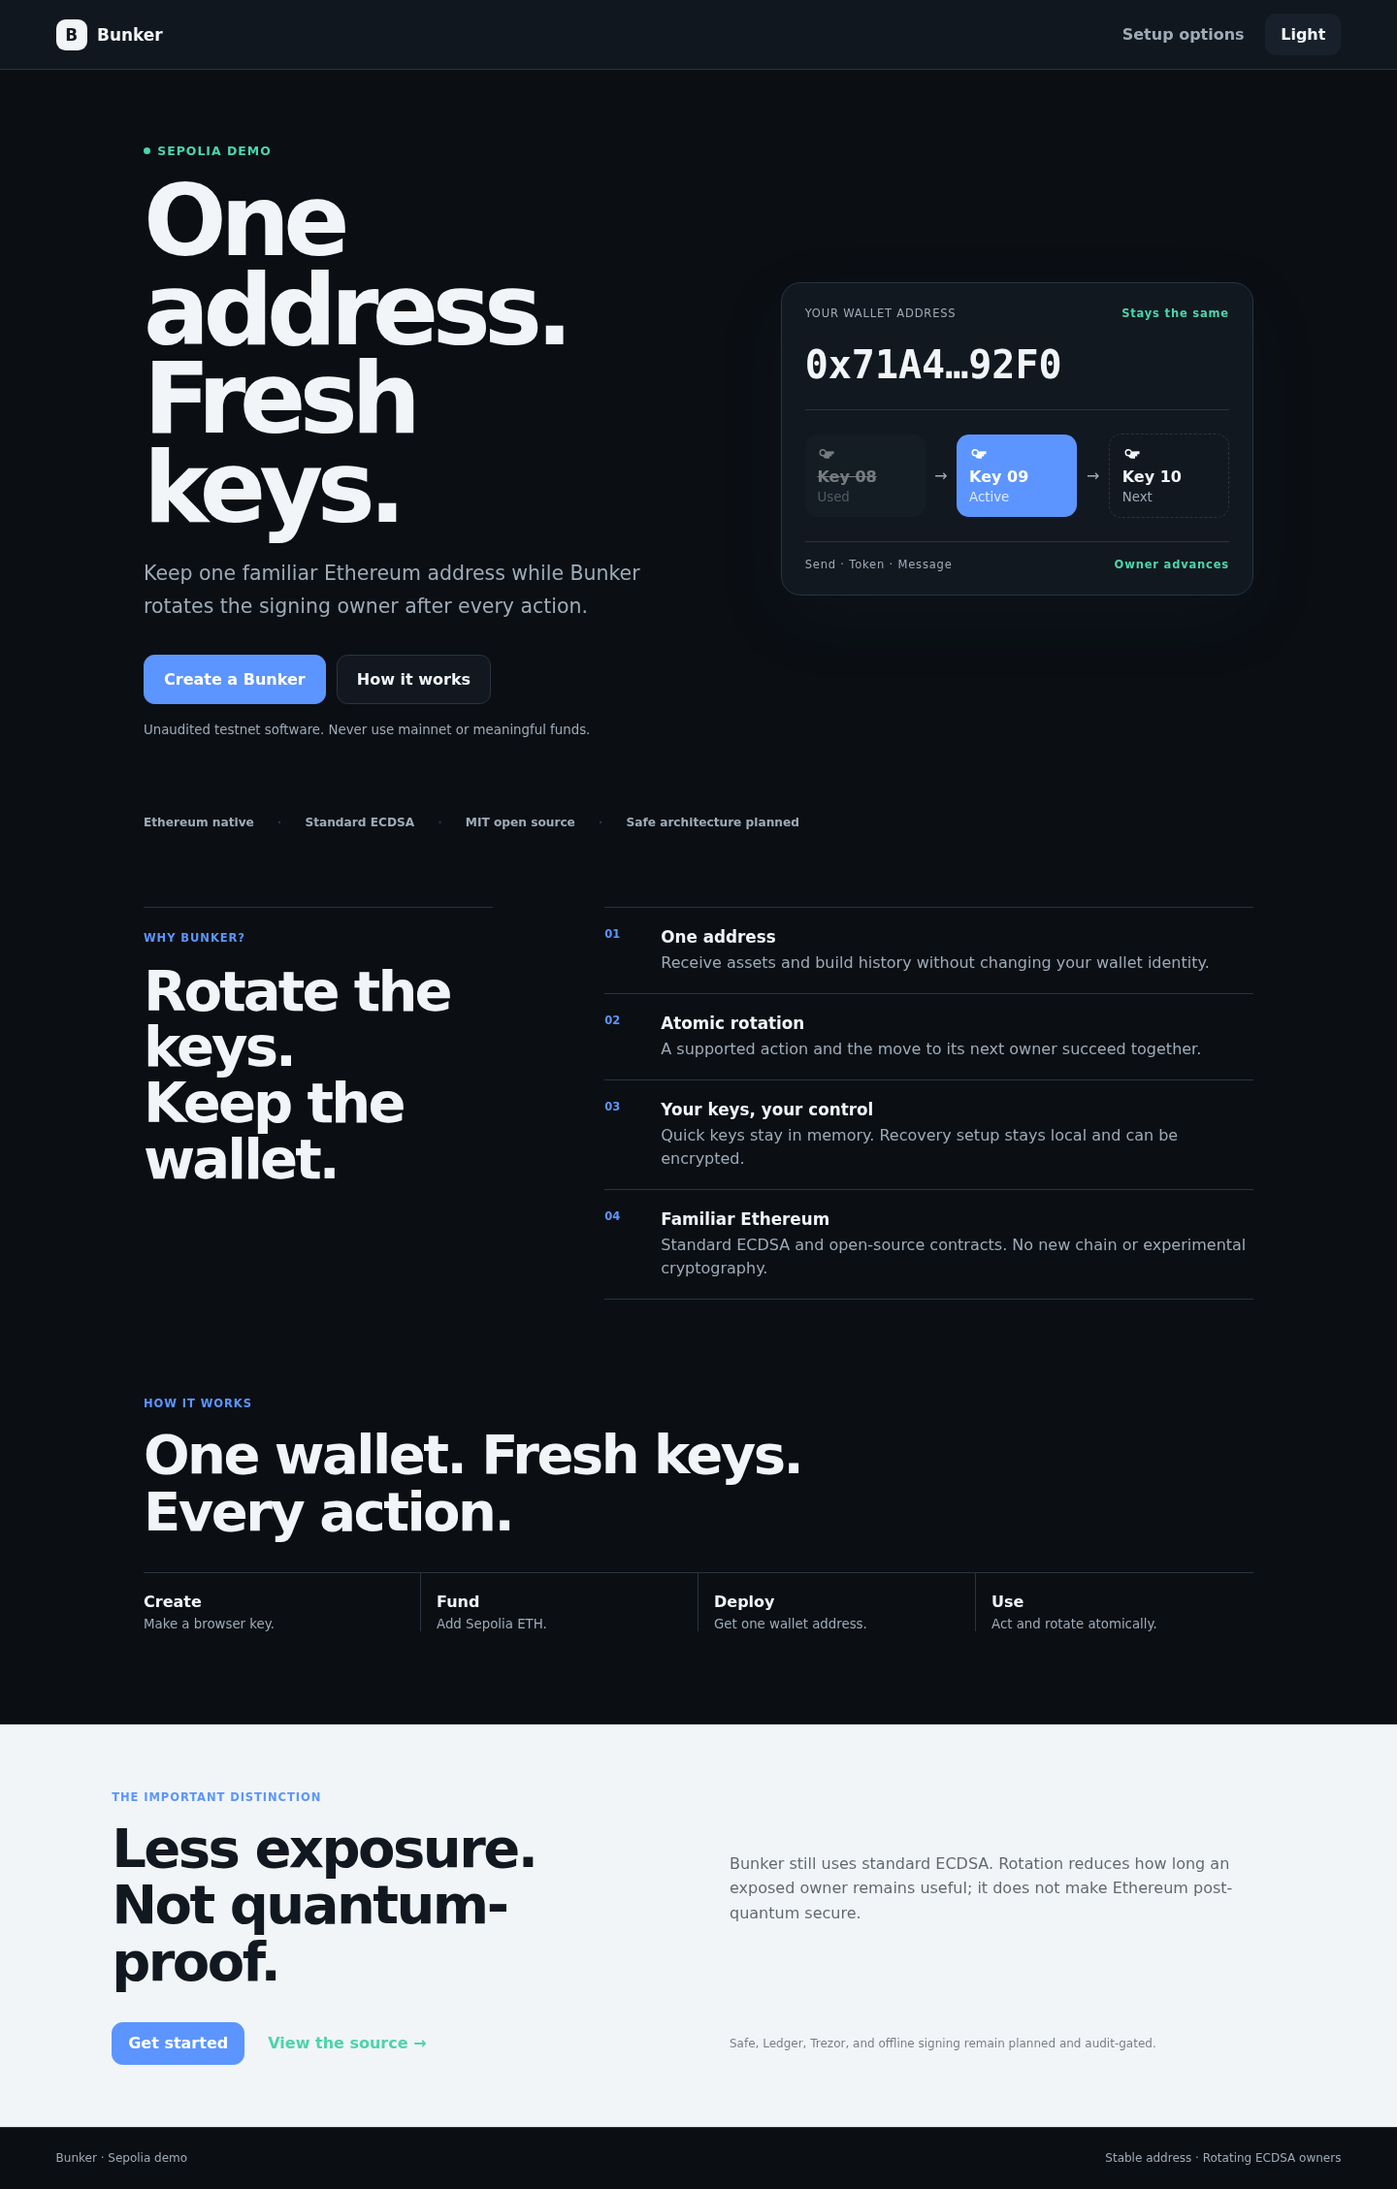
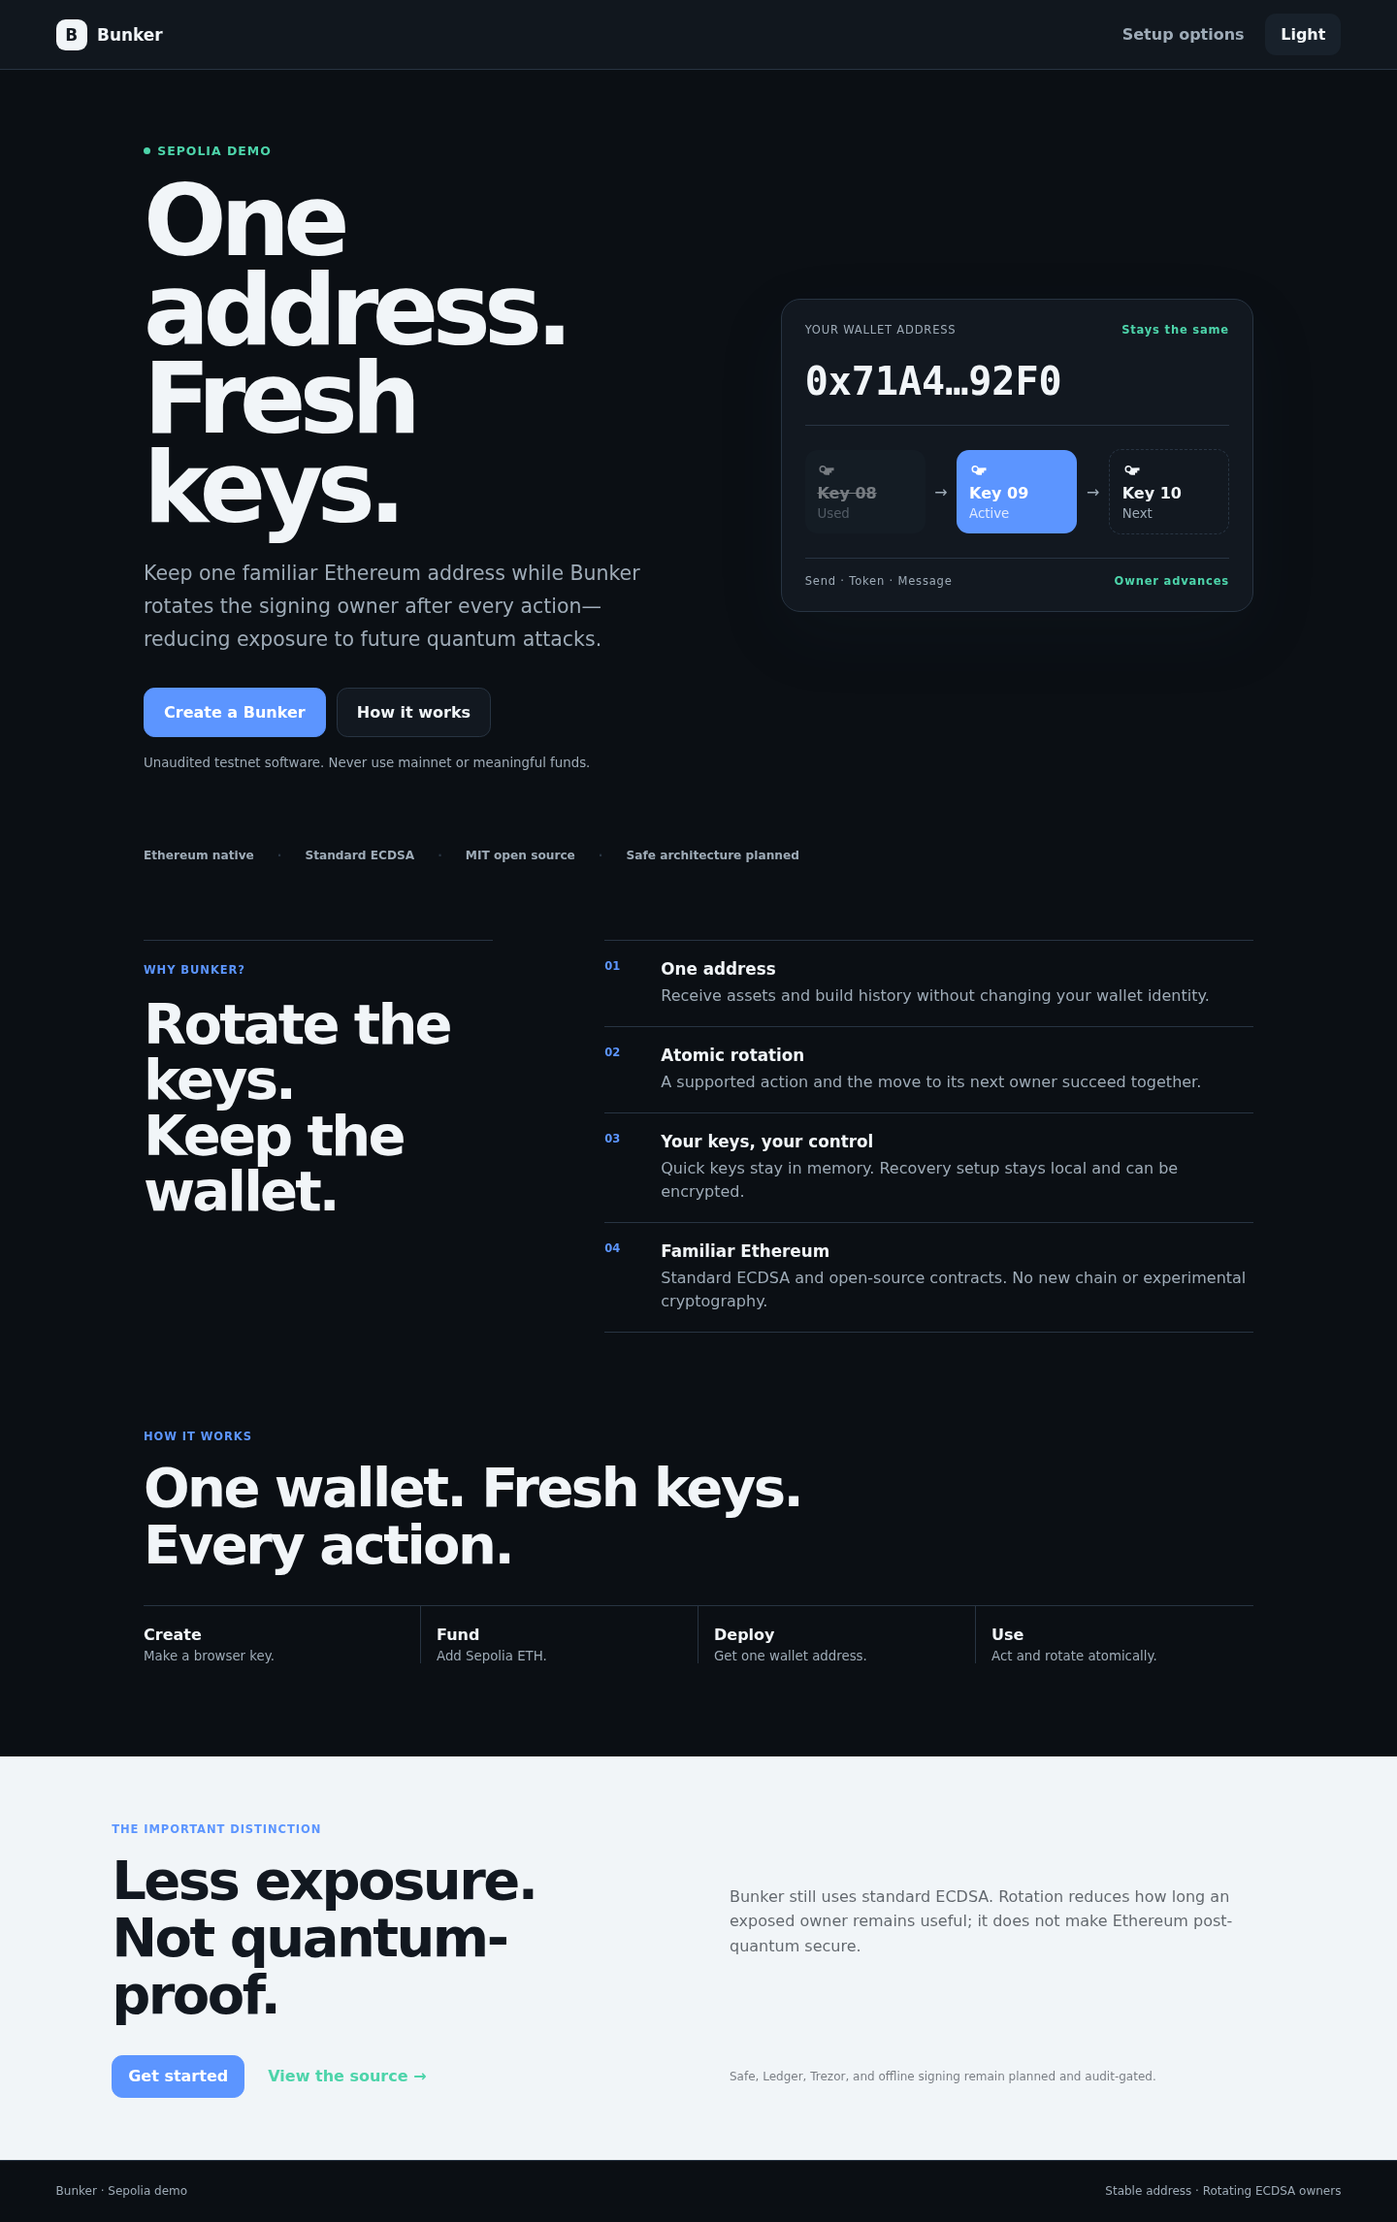
Clarify quantum exposure in hero

diff --git a/apps/web/src/App.tsx b/apps/web/src/App.tsx
@@ -31,7 +31,7 @@ export default function App(){
  onCleanup(()=>{wipe();clearEphemeralBurner()});
  return <div class={`site ${theme()}`}><header class="top"><button class="brand" onClick={()=>go(walletAddress()?"wallet":"landing")}><span>B</span>Bunker</button><nav><Show when={walletAddress()}><button onClick={()=>go("wallet")}>Wallet</button></Show><button onClick={()=>go("advanced")}>Setup options</button><button class="theme" onClick={()=>setTheme(theme()==="light"?"dark":"light")}>{theme()==="light"?"Dark":"Light"}</button><Show when={walletAddress()}><button onClick={exit}>Exit</button></Show></nav></header><Show when={notice()}><div class="toast" role="status">{notice()}</div></Show>
  <main>
- <Show when={view()==="landing"}><section class="hero-new"><div class="hero-copy"><span class="status-dot">Sepolia demo</span><h1>One address.<br/>Fresh keys.</h1><p>Keep one familiar Ethereum address while Bunker rotates the signing owner after every action.</p><div class="hero-actions"><button class="primary" onClick={begin}>Create a Bunker</button><a class="button-link" href="#how-it-works">How it works</a></div><small>Unaudited testnet software. Never use mainnet or meaningful funds.</small></div><div class="mechanism" aria-label="Stable wallet address with rotating owner keys"><div class="address-head"><span>YOUR WALLET ADDRESS</span><b>Stays the same</b></div><code>0x71A4…92F0</code><div class="key-track"><div class="key spent"><Icon name="key"/><span>Key 08</span><small>Used</small></div><i>→</i><div class="key active"><Icon name="key"/><span>Key 09</span><small>Active</small></div><i>→</i><div class="key next"><Icon name="key"/><span>Key 10</span><small>Next</small></div></div><div class="action-line"><span>Send · Token · Message</span><b>Owner advances</b></div></div></section><div class="trust-line"><span>Ethereum native</span><span>Standard ECDSA</span><span>MIT open source</span><span>Safe architecture planned</span></div><section class="why" id="how-it-works"><div class="why-head"><span>Why Bunker?</span><h2>Rotate the keys.<br/>Keep the wallet.</h2></div><div class="why-list"><article><b>01</b><div><h3>One address</h3><p>Receive assets and build history without changing your wallet identity.</p></div></article><article><b>02</b><div><h3>Atomic rotation</h3><p>A supported action and the move to its next owner succeed together.</p></div></article><article><b>03</b><div><h3>Your keys, your control</h3><p>Quick keys stay in memory. Recovery setup stays local and can be encrypted.</p></div></article><article><b>04</b><div><h3>Familiar Ethereum</h3><p>Standard ECDSA and open-source contracts. No new chain or experimental cryptography.</p></div></article></div></section><section class="flow"><span>How it works</span><h2>One wallet. Fresh keys.<br/>Every action.</h2><ol><li><b>Create</b><small>Make a browser key.</small></li><li><b>Fund</b><small>Add Sepolia ETH.</small></li><li><b>Deploy</b><small>Get one wallet address.</small></li><li><b>Use</b><small>Act and rotate atomically.</small></li></ol></section><section class="roadmap"><div><span>The important distinction</span><h2>Less exposure.<br/>Not quantum-proof.</h2></div><p>Bunker still uses standard ECDSA. Rotation reduces how long an exposed owner remains useful; it does not make Ethereum post-quantum secure.</p><div class="roadmap-links"><button class="primary" onClick={begin}>Get started</button><a href="https://github.com/SilentCicero/bunker-wallet" target="_blank" rel="noreferrer">View the source →</a></div><small>Safe, Ledger, Trezor, and offline signing remain planned and audit-gated.</small></section></Show>
+ <Show when={view()==="landing"}><section class="hero-new"><div class="hero-copy"><span class="status-dot">Sepolia demo</span><h1>One address.<br/>Fresh keys.</h1><p>Keep one familiar Ethereum address while Bunker rotates the signing owner after every action—reducing exposure to future quantum attacks.</p><div class="hero-actions"><button class="primary" onClick={begin}>Create a Bunker</button><a class="button-link" href="#how-it-works">How it works</a></div><small>Unaudited testnet software. Never use mainnet or meaningful funds.</small></div><div class="mechanism" aria-label="Stable wallet address with rotating owner keys"><div class="address-head"><span>YOUR WALLET ADDRESS</span><b>Stays the same</b></div><code>0x71A4…92F0</code><div class="key-track"><div class="key spent"><Icon name="key"/><span>Key 08</span><small>Used</small></div><i>→</i><div class="key active"><Icon name="key"/><span>Key 09</span><small>Active</small></div><i>→</i><div class="key next"><Icon name="key"/><span>Key 10</span><small>Next</small></div></div><div class="action-line"><span>Send · Token · Message</span><b>Owner advances</b></div></div></section><div class="trust-line"><span>Ethereum native</span><span>Standard ECDSA</span><span>MIT open source</span><span>Safe architecture planned</span></div><section class="why" id="how-it-works"><div class="why-head"><span>Why Bunker?</span><h2>Rotate the keys.<br/>Keep the wallet.</h2></div><div class="why-list"><article><b>01</b><div><h3>One address</h3><p>Receive assets and build history without changing your wallet identity.</p></div></article><article><b>02</b><div><h3>Atomic rotation</h3><p>A supported action and the move to its next owner succeed together.</p></div></article><article><b>03</b><div><h3>Your keys, your control</h3><p>Quick keys stay in memory. Recovery setup stays local and can be encrypted.</p></div></article><article><b>04</b><div><h3>Familiar Ethereum</h3><p>Standard ECDSA and open-source contracts. No new chain or experimental cryptography.</p></div></article></div></section><section class="flow"><span>How it works</span><h2>One wallet. Fresh keys.<br/>Every action.</h2><ol><li><b>Create</b><small>Make a browser key.</small></li><li><b>Fund</b><small>Add Sepolia ETH.</small></li><li><b>Deploy</b><small>Get one wallet address.</small></li><li><b>Use</b><small>Act and rotate atomically.</small></li></ol></section><section class="roadmap"><div><span>The important distinction</span><h2>Less exposure.<br/>Not quantum-proof.</h2></div><p>Bunker still uses standard ECDSA. Rotation reduces how long an exposed owner remains useful; it does not make Ethereum post-quantum secure.</p><div class="roadmap-links"><button class="primary" onClick={begin}>Get started</button><a href="https://github.com/SilentCicero/bunker-wallet" target="_blank" rel="noreferrer">View the source →</a></div><small>Safe, Ledger, Trezor, and offline signing remain planned and audit-gated.</small></section></Show>
  <Show when={view()==="setup"}><section class="setup"><div class="stepper"><span class="done">1 <b>Key</b></span><span classList={{done:setupBalance()>=parseEther("0.007")}}>2 <b>Fund</b></span><span classList={{done:Boolean(walletAddress())}}>3 <b>Create</b></span></div><h1>{setupBalance()>=parseEther("0.007")?"Create your stable wallet.":"Add Sepolia test ETH."}</h1><p>{setupBalance()>=parseEther("0.007")?"Your setup key is funded. Create the wallet contract and move the test ETH into its permanent address.":"Your temporary setup address is ready and copied when you open a faucet."}</p><Show when={!recoverable()}><p class="ephemeral-note">Quick setup is memory-only. Do not refresh during funding or after wallet creation. Use Recovery phrase setup if you want restoration later.</p></Show><div class="setup-address"><span>Setup address</span><code>{setupAddress()}</code><button onClick={()=>copy(setupAddress())}>Copy</button></div><div class="balance-row"><span>Setup balance</span><strong>{Number(formatEther(setupBalance())).toFixed(4)} ETH</strong></div><Show when={setupBalance()>=parseEther("0.007")} fallback={<div class="setup-actions"><button class="primary" onClick={openFaucet}>Open QuickNode faucet</button><button onClick={checkFunding} disabled={Boolean(busy())}>{busy()||"I funded it — check balance"}</button></div>}><button class="primary wide" onClick={createStableWallet} disabled={Boolean(busy())}>{busy()||"Create stable wallet"}</button></Show><button class="text-button" onClick={()=>go("advanced")}>Use another setup method</button></section></Show>
  <Show when={view()==="wallet"&&walletAddress()}><section class="wallet"><div class="wallet-top"><div><span class="status-dot">Sepolia · live</span><h1>{Number(formatEther(walletBalance())).toFixed(4)} ETH</h1><small class="spendable">Keep 0.001 ETH for the next owner key on every action.</small><button class="address-copy" onClick={()=>copy(walletAddress())}>{short(walletAddress()!)} · Copy</button></div><div class="rotation-card"><span>OWNER ROTATION</span><strong>Key {rotation()+1}</strong><p>Active underneath your stable address</p><div><i style={{width:`${Math.min(100,(rotation()+1)*8)}%`}}/></div></div></div><div class="stable"><span>Stable wallet address</span><code>{walletAddress()}</code><b>Does not change</b></div><div class="wallet-grid"><section class="actions-panel"><div class="action-tabs"><button classList={{active:action()==="eth"}} onClick={()=>setAction("eth")}><Icon name="send"/>ETH</button><button classList={{active:action()==="token"}} onClick={()=>setAction("token")}><Icon name="token"/>Token</button><button classList={{active:action()==="message"}} onClick={()=>setAction("message")}><Icon name="message"/>Wall</button></div><Show when={action()==="eth"}><h2>Send ETH</h2><label>Recipient<input ref={to} placeholder="0x…"/></label><label>Amount<input ref={amount} inputmode="decimal" placeholder="0.001"/></label><button class="primary wide" onClick={runETH} disabled={Boolean(busy())}>{busy()||"Send + rotate key"}</button></Show><Show when={action()==="token"}><h2>Send ERC-20</h2><label>Token contract<input ref={token} placeholder="0x…"/></label><label>Recipient<input ref={to} placeholder="0x…"/></label><div class="split"><label>Amount<input ref={amount} placeholder="10"/></label><label>Decimals<input ref={decimals} value="18"/></label></div><button class="primary wide" onClick={runToken} disabled={Boolean(busy())}>{busy()||"Send token + rotate"}</button></Show><Show when={action()==="message"}><h2>Post to the Bunker wall</h2><p class="muted">Write a short on-chain message from this stable address.</p><textarea ref={message} maxlength="140" placeholder="Hello from my rotating wallet"/><button class="primary wide" onClick={runMessage} disabled={Boolean(busy())}>{busy()||"Post + rotate key"}</button></Show></section><aside class="activity"><h2>Under the hood</h2><For each={activity()}>{item=><div class="activity-row"><span>{item.index===rotation()?"Current":"Done"}</span><p><b>{item.label}</b><small>Owner key {item.index+1}</small></p>{item.hash&&<a href={`https://sepolia.etherscan.io/tx/${item.hash}`} target="_blank" rel="noreferrer">View</a>}</div>}</For></aside></div></section></Show>
  <Show when={view()==="advanced"}><section class="advanced"><button class="back" onClick={()=>go("landing")}>← Back</button><h1>Choose how to protect the setup key.</h1><p>Each method creates a stable wallet address with automatic owner rotation.</p><div class="option-list"><button onClick={createPhrase}><span>Recovery phrase</span><small>24 words · optional check and password</small><b>Set up</b></button><button onClick={()=>go("load")}><span>Load existing wallet</span><small>Encrypted vault or 24 words</small><b>Load</b></button><button disabled><span>Ledger</span><small>Hardware setup · compatibility verification in progress</small><b>Soon</b></button><button disabled><span>Trezor</span><small>Hardware setup · compatibility verification in progress</small><b>Soon</b></button><button disabled><span>EVM wallet</span><small>Manual next-key proof required</small><b>Soon</b></button></div></section></Show>

diff --git a/tests/e2e/web.e2e.ts b/tests/e2e/web.e2e.ts
@@ -2,6 +2,6 @@ import { expect, test } from "@playwright/test";
 import { mkdirSync } from "node:fs";
 const views=[["desktop",1440,900],["wide",1920,1080],["tablet",768,1024],["mobile",390,844],["mobile-small",360,800]] as const;
 test.beforeAll(()=>mkdirSync(".impeccable/review",{recursive:true}));
-for(const [name,width,height] of views)test(`${name} landing renders in both themes`,async({page})=>{await page.setViewportSize({width,height});await page.goto("/");await expect(page.getByRole("heading",{name:/One address.*Fresh keys/s})).toBeVisible();await expect(page.getByRole("button",{name:"Create a Bunker"})).toBeVisible();await expect(page.getByText("Rotate the keys.")).toBeVisible();await expect(page.getByText("A supported action and the move to its next owner succeed together.")).toBeVisible();await expect(page.getByText("Less exposure.")).toBeVisible();await expect(page.getByText("MIT open source")).toBeVisible();await expect(page.getByRole("link",{name:/View the source/})).toHaveAttribute("href","https://github.com/SilentCicero/bunker-wallet");expect(await page.evaluate(()=>document.documentElement.scrollWidth<=document.documentElement.clientWidth)).toBe(true);await page.screenshot({path:`.impeccable/review/${name}-light.png`,fullPage:true});await page.getByRole("button",{name:"Dark"}).click();await page.screenshot({path:`.impeccable/review/${name}-dark.png`,fullPage:true})});
+for(const [name,width,height] of views)test(`${name} landing renders in both themes`,async({page})=>{await page.setViewportSize({width,height});await page.goto("/");await expect(page.getByRole("heading",{name:/One address.*Fresh keys/s})).toBeVisible();await expect(page.getByRole("button",{name:"Create a Bunker"})).toBeVisible();await expect(page.getByText(/reducing exposure to future quantum attacks/)).toBeVisible();await expect(page.getByText("Rotate the keys.")).toBeVisible();await expect(page.getByText("A supported action and the move to its next owner succeed together.")).toBeVisible();await expect(page.getByText("Less exposure.")).toBeVisible();await expect(page.getByText("MIT open source")).toBeVisible();await expect(page.getByRole("link",{name:/View the source/})).toHaveAttribute("href","https://github.com/SilentCicero/bunker-wallet");expect(await page.evaluate(()=>document.documentElement.scrollWidth<=document.documentElement.clientWidth)).toBe(true);await page.screenshot({path:`.impeccable/review/${name}-light.png`,fullPage:true});await page.getByRole("button",{name:"Dark"}).click();await page.screenshot({path:`.impeccable/review/${name}-dark.png`,fullPage:true})});
 test("three-step demo creates a memory-only setup key and opens the QuickNode faucet",async({page})=>{await page.goto("/");await page.getByRole("button",{name:"Create a Bunker"}).click();await expect(page.getByRole("heading",{name:"Add Sepolia test ETH."})).toBeVisible();const address=await page.locator(".setup-address code").innerText();expect(address).toMatch(/^0x[0-9a-fA-F]{40}$/);expect(await page.evaluate(()=>Object.keys(localStorage).every(key=>!key.includes("burner")))).toBe(true);const popupPromise=page.waitForEvent("popup");await page.getByRole("button",{name:"Open QuickNode faucet"}).click();const popup=await popupPromise;expect(popup.url()).toContain("faucet.quicknode.com/ethereum/sepolia");await popup.close();await page.screenshot({path:".impeccable/review/setup-light.png",fullPage:true})});
 test("advanced phrase setup offers optional check and password",async({page})=>{await page.goto("/");await page.getByRole("button",{name:"Setup options"}).click();await page.getByRole("button",{name:/Recovery phrase/}).click();const next=page.getByRole("button",{name:"Check my backup"});await expect(next).toBeDisabled();await page.getByRole("checkbox").check();await expect(next).toBeEnabled();await expect(page.getByRole("button",{name:"Skip check"})).toBeEnabled()});
